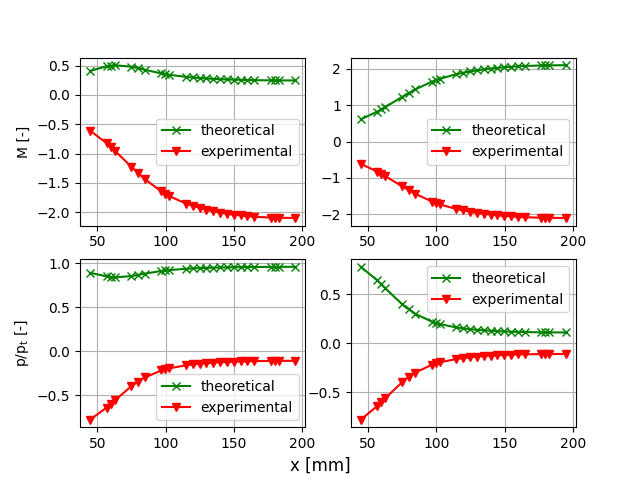
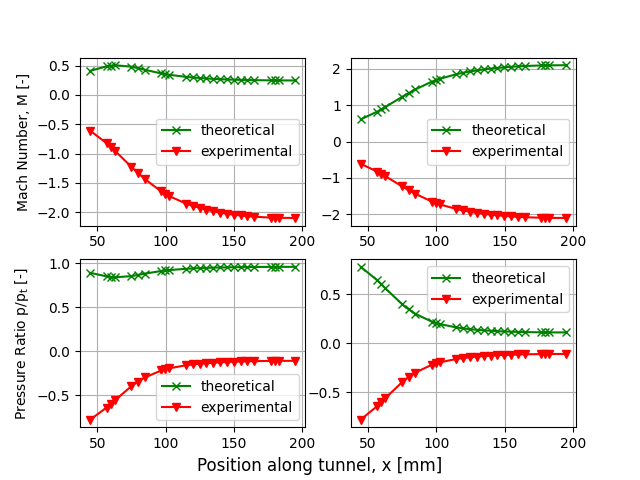
ready for testing

diff --git a/code/plotter_part2.py b/code/plotter_part2.py
@@ -1,0 +1,64 @@
+import matplotlib.pyplot as plt
+import numpy as np
+from pathlib import Path
+
+from part1 import *
+from part2 import *
+
+############
+### DATA ###
+############
+
+# CONSTANTS
+x = [44.8, 56.8, 59.8, 62.8, 74.8, 79.8, 84.8, 96.8, 99.8, 102.8, 114.8, 119.8, 124.8, 129.8, 134.8, 139.8, 144.8, 149.8, 154.8, 159.8, 164.8, 176.8, 179.8, 182.8, 194.8, 226.8, 254.8, 286.8, 314.8, 344.8, 376.8, 404.8, 434.8, 466.8, 494.8, 524.8, 556.8, 584.8, 614.8, 642.8, 674.8, 704.8, 734.8, 764.8, 796.8, 824.8, 854.8]
+p_ratio = np.array([0.781381, 0.681254, 0.627379, 0.572096, 0.440294, 0.384134, 0.336203, 0.27019, 0.244047, 0.21753, 0.174522, 0.156648, 0.143651, 0.134892, 0.129972, 0.129501, 0.129057, 0.128039, 0.127851, 0.128469, 0.129768, 0.130833, 0.130729, 0.131342, 0.131452, 0.13329, 0.138981, 0.163118, 0.171505, 0.16189, 0.193759, 0.159079, 0.178082, 0.170626, 0.180855, 0.171606, 0.180789, 0.179816, 0.2132, 0.272552, 0.29942, 0.318293, 0.331491, 0.338732, 0.361007, 0.389107, 0.410095])
+
+# LOCATION OF SHOCK WAVES
+x_shock_3 = 630
+x_shock_5 = 530
+pe6_pt_shock_3, pe5_pt_shock_3, pe3_pt_shock_3 =  pressure_ratio_shock_location(x_shock_3)
+pe6_pt_shock_5, pe5_pt_shock_5, pe3_pt_shock_5 =  pressure_ratio_shock_location(x_shock_5)
+
+
+# EXPERIMENTAL PRESSURE RATIOS DATA
+p_ratio_3 = []
+p_ratio_4 = []
+p_ratio_5 = []
+
+
+save_to_folder = 'C://Users/matth/Documents/School/University/Delft/Courses/Year 2/Q2/Aero II/High Speed Practical/plots/'
+
+markers = ['-.', '-o', '-v', '-x', '-s', '-D']
+
+
+
+plt.grid()
+# pressure ratios
+plt.plot(x, p_ratio, '-o', color = "magenta", label='3A/B (Supersonic 630.0 mm)')
+plt.plot(x, p_ratio, '-s', color = "cyan", label='4A/B (Supersonic 630.0 mm)')
+plt.plot(x, p_ratio, '-x', color = "blue", label='5A/B (Subsonic)')
+
+# shock locations
+plt.axvline(x_shock_3, color = 'black', linestyle = '--')
+plt.text(x_shock_3 - 30 , 0.5, '3 shockwave', rotation=90)
+
+plt.axvline(x_shock_5, color = 'black', linestyle = '--')
+plt.text(x_shock_5 - 30, 0.5, '5 shockwave', rotation=90)
+
+# pressure ratio coordinates
+# shockwave at 3
+plt.plot(x_shock_3, pe3_pt_shock_3, marker="v", markersize=10, color = 'black', label = '$\mathregular{p/p_{t}}_{3}$')
+plt.plot(x_shock_3, pe5_pt_shock_3, marker="^", markersize=10, color = 'black', label = '$\mathregular{p/p_{t}}_{5}$')
+plt.plot(x_shock_3, pe6_pt_shock_3, marker="<", markersize=10, color = 'black', label = '$\mathregular{p/p_{t}}_{6}$')
+# shockwave at 5
+plt.plot(x_shock_5, pe3_pt_shock_5, marker="X", markersize=10, color = 'black', label = '$\mathregular{p/p_{t}}_{3}$')
+plt.plot(x_shock_5, pe5_pt_shock_5, marker="D", markersize=10, color = 'black', label = '$\mathregular{p/p_{t}}_{5}$')
+plt.plot(x_shock_5, pe6_pt_shock_5, marker="p", markersize=10, color = 'black', label = '$\mathregular{p/p_{t}}_{6}$')
+
+
+
+plt.xlabel('Position along tunnel, x [mm]')
+plt.ylabel('Pressure ratio $\mathregular{p/p_{t}}$ [-] [mm]')
+plt.legend(loc='best')
+plt.savefig(save_to_folder + 'pressure ratio versus position along tunnel')
+plt.show()

diff --git a/code/plotter_part1.py b/code/plotter_part1.py
@@ -4,9 +4,9 @@ from pathlib import Path
 
 from part1 import *
 
-"""
-Part 1 Data
-"""
+# """
+# Part 1 Data
+# """
 # CONSTANTS
 x = [44.8, 56.8, 59.8, 62.8, 74.8, 79.8, 84.8, 96.8, 99.8, 102.8, 114.8, 119.8, 124.8, 129.8, 134.8, 139.8, 144.8, 149.8, 154.8, 159.8, 164.8, 176.8, 179.8, 182.8, 194.8]
 y = [19.204, 16.819, 16.532, 16.372, 16.958, 17.664, 18.553, 21.067, 21.698, 22.306, 24.488, 25.275, 25.992, 26.638, 27.219, 27.734, 28.188, 28.584, 28.924, 29.212, 29.45, 29.832, 29.89, 29.935, 30.0]
@@ -17,23 +17,33 @@ diffuser_height = [2.2, 2.4472, 2.6944, 2.9416, 3.1888, 3.436, 3.683200000000000
 
 # THEORETICAL
 # import computed mach numbers and pressure ratios for sub and supersonic cases
-# subsonic case needs a measured pressure ratio (p/p_t) at a known position
-    # one_sub(position, pressure_ratio)
+
+
+
+"""
+subsonic case needs a measured pressure ratio (p/p_t) at a known position
+    one_sub(position, pressure_ratio)
+"""
 M_sup, p_ratio_sup = np.array(one_sup())
 M_sub, p_ratio_sub = np.array(one_sub(45,0.89))
 
 
-# EXPERIMENTAL (TO BE FILLED IN)
+"""
+EXPERIMENTAL (TO BE FILLED IN)
+"""
 M_exp = -M_sup
 p_ratio_exp = -p_ratio_sup
+
 
 save_to_folder = 'C://Users/matth/Documents/School/University/Delft/Courses/Year 2/Q2/Aero II/High Speed Practical/plots/'
 
 markers = ['-.', '-o', '-v', '-x', '-s', '-D']
 
-"""
-Part 1 Sub and Supersonic Plots
-"""
+
+
+# """
+# Part 1 Sub and Supersonic Plots
+# """
 # M_nom = 2.1, x_throat = 65.0 mm, h_throat = 16.34 mm
 # $\mathregular{u_{p}(t)}$
 
@@ -46,13 +56,13 @@ f, axs = plt.subplots(2,2)
 # subsonic mach
 axs[0,0].plot(x, M_sub, '-x', color='green', label='theoretical')
 axs[0,0].plot(x, M_exp, '-v', color='red', label='experimental')
-axs[0,0].set_ylabel('M [-]')
+axs[0,0].set_ylabel('Mach Number, M [-]')
 axs[0,0].legend(loc='best')
 
 # subsonic pressure ratio
 axs[1,0].plot(x, p_ratio_sub, '-x', color='green', label='theoretical')
 axs[1,0].plot(x, p_ratio_exp, '-v', color='red', label='experimental')
-axs[1,0].set_ylabel('$\mathregular{p/p_{t}}$ [-]')
+axs[1,0].set_ylabel('Pressure ratio $\mathregular{p/p_{t}}$ [-]')
 axs[1,0].legend(loc='best')
 
 # supersonic mach
@@ -72,7 +82,7 @@ axs[0,0].grid()
 axs[1,0].grid()
 axs[0,1].grid()
 axs[1,1].grid()
-f.supxlabel('x [mm]')
+f.supxlabel('Position along tunnel, x [mm]')
 plt.savefig(save_to_folder + 'x vs M (subsonic-supersonic case)')
 plt.show()
 
@@ -80,9 +90,9 @@ plt.show()
 
 
 
-"""
-Diffuser Plot
-"""
+# """
+# Diffuser Plot
+# """
 # plt.grid()
 # plt.plot(x_along_diffuser, diffuser_height, '-')
 # plt.xlabel('x_along_diffuser [mm]')

diff --git a/code/text_reader.py b/code/text_reader.py
@@ -4,23 +4,28 @@ To read text file columns
 from pathlib import Path
 import re, pandas
 
-file = Path(r"C:\Users\matth\Documents\School\University\Delft\Courses\Year 2\Q2\Aero II\High Speed Practical\channel_variation.txt")
+file = Path(r"C:\Users\matth\Documents\School\University\Delft\Courses\Year 2\Q2\Aero II\High Speed Practical\testfile.txt")
 
-# # for test_results
-# def x_y_extract(filepath):
-#     new_data = list(filter(None, [re.split('\s+', i.strip('\n')) for i in open(filepath)]))
-#     # result = pandas.DataFrame(new_data)
+# for test_results
+def x_y_extract(filepath):
+    new_data = list(filter(None, [re.split('\s+', i.strip('\n')) for i in open(filepath)]))
+    # result = pandas.DataFrame(new_data)
 
-#     x = []
-#     y = []
-#     for row in new_data:
-#         x.append(float(row[1]))
-#         y.append(float(row[2]))
+    x = []
+    y = []
+    for row in new_data:
+        x.append(float(row[1]))
+        y.append(float(row[2]))
 
-#     return x,y
+    return x,y
 
-# x,y = x_y_extract(file)
-# print(x,y)
+x,y = x_y_extract(file)
+print(x,y)
+
+
+
+
+
 
 # # for channel variation file
 # def x_y_extract_channel(filepath):
@@ -41,21 +46,27 @@ file = Path(r"C:\Users\matth\Documents\School\University\Delft\Courses\Year 2\Q2
 # x_dist, y_dist, A_dist_ratio = x_y_extract_channel(file)
 # print(x_dist, y_dist, A_dist_ratio)
 
+
+
+
+
+
+
 # for adjustable diffuser variation file
-def x_y_extract_channel(filepath):
-    new_data = list(filter(None, [re.split('\s+', i.strip('\n')) for i in open(filepath)]))
-    # result = pandas.DataFrame(new_data)
+# def x_y_extract_channel(filepath):
+#     new_data = list(filter(None, [re.split('\s+', i.strip('\n')) for i in open(filepath)]))
+#     # result = pandas.DataFrame(new_data)
 
-    x_dist = []
-    y_dist = []
-    A_dist_ratio = []
-    for row in new_data:
-        x_dist.append(float(row[0]))
-        y_dist.append(float(row[1]))
-        A_dist_ratio.append(float(row[2]))
+#     x_dist = []
+#     y_dist = []
+#     A_dist_ratio = []
+#     for row in new_data:
+#         x_dist.append(float(row[0]))
+#         y_dist.append(float(row[1]))
+#         A_dist_ratio.append(float(row[2]))
 
 
-    return x_dist, y_dist, A_dist_ratio
+#     return x_dist, y_dist, A_dist_ratio
 
-x_dist, y_dist, A_dist_ratio = x_y_extract_channel(file)
-print(x_dist, y_dist, A_dist_ratio)
+# x_dist, y_dist, A_dist_ratio = x_y_extract_channel(file)
+# print(x_dist, y_dist, A_dist_ratio)

diff --git a/code/part2.py b/code/part2.py
@@ -13,6 +13,8 @@ import numpy
 CONSTANTS
 """
 gamma = 1.4
+x_shock_3 = 630
+x_shock_5 = 530
 
 
 """
@@ -83,7 +85,7 @@ def pressure_ratio_shock_location(shock_location):
     pe3_pt = output[2]
 
 
+    print(f"pe6_pt {pe6_pt}, pe5/pt {pe5_pt}, pe3/pt {pe3_pt}")
+
     return pe6_pt, pe5_pt, pe3_pt
 
-pe6_pt, pe5_pt, pe3_pt =  pressure_ratio_shock_location(630)
-print(f"pe6_pt {pe6_pt}, pe5/pt {pe5_pt}, pe3/pt {pe3_pt}")
